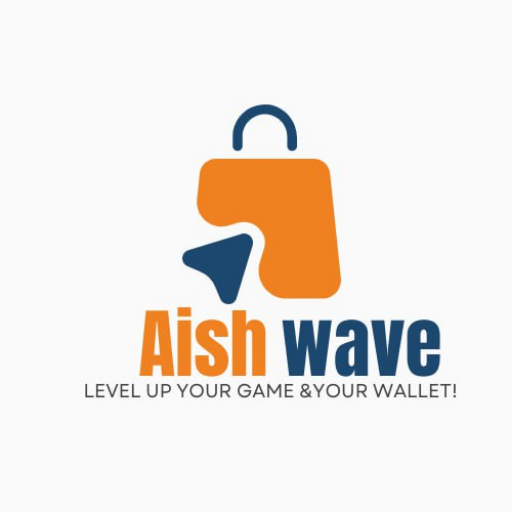
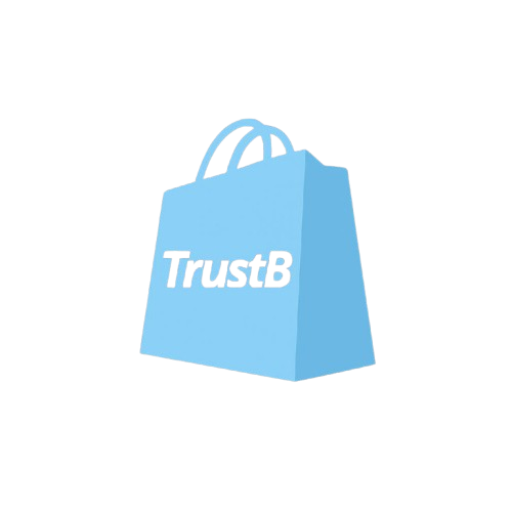
UI tweaks

Changed region(s): [[0.1562, 0.1875, 0.9062, 0.7812]]

diff --git a/shop/templates/homepage/landing_page.html b/shop/templates/homepage/landing_page.html
@@ -5,18 +5,15 @@
 <html lang="en" >
 <head>
   <meta charset="UTF-8">
-  <title>Trustbyte99</title>
-  <link rel="stylesheet" href="{% static 'trustbyte/css/landing_style.css' %}">
-
-</head>
-<body>
-<!-- partial:index.partial.html -->
-<html lang="en">
-<head>
-  <meta charset="UTF-8">
   <meta name="viewport" content="width=device-width, initial-scale=1.0, maximum-scale=1.0, user-scalable=no">
   <title>TrustByte99 - Trade with Trust</title>
   <link rel="stylesheet" href="styles.css">
+  <link rel="apple-touch-icon" sizes="180x180" href="{% static 'trustbyte/img/apple-touch-icon.png' %}">
+  <link rel="icon" type="image/png" sizes="32x32" href="{% static 'trustbyte/img/favicon-32x32.png' %}">
+  <link rel="icon" type="image/png" sizes="16x16" href="{% static 'trustbyte/img/favicon-16x16.png' %}">
+  <link rel="manifest" href="{% static 'trustbyte/img/site.webmanifest' %}">
+  <link rel="stylesheet" href="{% static 'trustbyte/css/style.css' %}">
+
   <link href="https://fonts.googleapis.com/css2?family=Poppins:wght@400;500;600;700;900&display=swap" rel="stylesheet">
   <link href="https://cdnjs.cloudflare.com/ajax/libs/font-awesome/6.0.0/css/all.min.css" rel="stylesheet">
 </head>
@@ -104,7 +101,7 @@
         <h3>Gaming Tournaments</h3>
         <p>Compete in tournaments across popular titles like PUBG, Free Fire, and Call of Duty Mobile. Win exclusive in-game items and real cash prizes.</p>
       </div>
-      <img src="{% static 'trustbyte/img/pubg.jpg' %}" alt="Gaming tournaments" class="feature-image">
+      <img src="{% static 'trustbyte/img/games.jpeg' %}" alt="Gaming tournaments" class="feature-image">
     </div>
     
     <div class="feature-card" data-feature="in-game">
@@ -115,7 +112,7 @@
         <h3>In-Game Items</h3>
         <p>Purchase game currency, skins, and exclusive items for your favorite games at the best rates. Direct top-ups for all major gaming platforms.</p>
       </div>
-      <img src="{% static 'trustbyte/img/fortnite.jpg' %}" alt="In-game items" class="feature-image">
+      <img src="{% static 'trustbyte/img/curr.jpeg' %}" alt="In-game items" class="feature-image">
     </div>
     
     <div class="feature-card" data-feature="crypto">
@@ -127,7 +124,7 @@
         <p>Buy popular cryptocurrencies directly to your wallet with low fees. Fast, secure, and beginner-friendly.
 </p>
       </div>
-      <img src="{% static 'trustbyte/img/cry.jpeg' %}" alt="Crypto trading" class="feature-image">
+      <img src="{% static 'trustbyte/img/cr.jpeg' %}" alt="Crypto trading" class="feature-image">
     </div>
     
     <div class="feature-card" data-feature="esim">
@@ -138,7 +135,7 @@
         <h3>Global eSIM Marketplace</h3>
         <p>Buy and activate eSIMs instantly — stay online wherever you go.</p>
       </div>
-      <img src="{% static 'trustbyte/img/gesim.jpeg' %}" alt="eSIM trading" class="feature-image">
+      <img src="{% static 'trustbyte/img/es.jpeg' %}" alt="eSIM trading" class="feature-image">
     </div>
     
     <div class="feature-card" data-feature="giftcards">
@@ -149,7 +146,7 @@
         <h3>Buy and Sell Gift Cards Instantly</h3>
         <p>Trade gift cards from Apple, Google Play, Steam, PlayStation, and more — or shop top brands directly from our store. Get great rates and fast service, all in one place</p>
       </div>
-      <img src="{% static 'trustbyte/img/gift.jpeg' %}" alt="Gift cards" class="feature-image">
+      <img src="{% static 'trustbyte/img/car.jpeg' %}" alt="Gift cards" class="feature-image">
     </div>
     
     <div class="feature-card" data-feature="investing">
@@ -161,12 +158,12 @@
         <p>Grow your capital with flexible investment plans designed to match your goals. Enjoy competitive returns, full transparency, and the power of smart financial growth.
 </p>
       </div>
-      <img src="{% static 'trustbyte/img/inve.jpeg' %}" alt="Smart investing" class="feature-image">
+      <img src="{% static 'trustbyte/img/in.jpeg' %}" alt="Smart investing" class="feature-image">
     </div>
   </section>
   
   <!-- Reviews Section -->
-  <section class="reviews-section" id="reviews">
+  <!-- <section class="reviews-section" id="reviews">
     <div class="section-title">
       <h2>Trusted by Our Community</h2>
       <p>See what our users are saying about TrustByte99</p>
@@ -311,7 +308,7 @@
         </div>
       </div>
     </div>
-  </section>
+  </section> -->
   
   <!-- Final CTA Section -->
   <section class="cta-section">
@@ -355,10 +352,10 @@
       <div class="footer-column">
         <h4>Connect</h4>
         <div class="social-links">
-          <a href="https://twitter.com/AishWave"><i class="fab fa-twitter"></i></a>
-          <!-- <a href="#"><i class="fab fa-instagram"></i></a>
-          <a href="#"><i class="fab fa-tiktok"></i></a> -->
-          <a href="https://tiktok.com/@aishwave.com"><i class="fab fa-youtube"></i></a>
+          <a href="https://tiktok.com/@trustbyte99"><i class="fab fa-tiktok"></i></a>
+          <!-- <a href="#"><i class="fab fa-instagram"></i></a> -->
+          <a href="https://twitter.com/@trustbyte99"><i class="fab fa-twitter"></i></a>
+          <a href="https://www.youtube.com/channel/UCDmTtd97ZjLdSjNmvqoesqA"><i class="fab fa-youtube"></i></a>
         </div>
       </div>
     </div>
@@ -712,10 +709,7 @@ document.getElementById('steam-detail-cancel').addEventListener('click', () => {
   steamDetailInterface.classList.remove('open');
 });
 </script>
-</body>
-</html>
-<!-- partial -->
-  <script  src="{% static 'trustbyte/js/landing_script.js' %}"></script>
+<script  src="{% static 'trustbyte/js/landing_script.js' %}"></script>
 
 </body>
 </html>

diff --git a/shop/templates/shop/new_finance.html b/shop/templates/shop/new_finance.html
@@ -64,17 +64,14 @@
 
 <!-- Social Media Icons -->
             <div class="social-icons" id="socialIcons">
-                <a href="https://youtube.com/@trustbytecom" target="_blank" class="social-link youtube">
+                <a href="https://youtube.com/channel/UCDmTtd97ZjLdSjNmvqoesqA" target="_blank" class="social-link 5 youtube">
                     <i class="fab fa-youtube"></i>
                 </a>
-                <a href="https://twitter.com/trustbytecom" target="_blank" class="social-link twitter">
+                <a href="https://twitter.com/@trustbyte99" target="_blank" class="social-link twitter">
                     <i class="fab fa-twitter"></i>
                 </a>
-                <a href="https://tiktok.com/@trustbyte.com" target="_blank" class="social-link tiktok">
+                <a href="https://tiktok.com/@trustbyte99" target="_blank" class="social-link tiktok">
                     <i class="fab fa-tiktok"></i>
-                </a>
-                <a href="https://instagram.com/trustbytecom" target="_blank" class="social-link instagram">
-                    <i class="fab fa-instagram"></i>
                 </a>
             </div>
 

diff --git a/shop/templates/shop/finance.html b/shop/templates/shop/finance.html
@@ -86,18 +86,18 @@
 </style>
 
 <div class="social-icons" id="socialIcons">
-    <a href="https://youtube.com/@trustbytecom" target="_blank" class="social-link youtube">
+    <a href="https://youtube.com/channel/UCDmTtd97ZjLdSjNmvqoesqA" target="_blank" class="social-link youtube">
         <i class="fab fa-youtube"></i>
     </a>
-    <a href="https://twitter.com/trustbytecom" target="_blank" class="social-link twitter">
+    <a href="https://twitter.com/@trustbyte99" target="_blank" class="social-link twitter">
         <i class="fab fa-twitter"></i>
     </a>
-    <a href="https://tiktok.com/@trustbyte.com" target="_blank" class="social-link tiktok">
+    <a href="https://tiktok.com/@trustbyte99" target="_blank" class="social-link tiktok">
         <i class="fab fa-tiktok"></i>
     </a>
-    <a href="https://instagram.com/trustbytecom" target="_blank" class="social-link instagram">
+    <!-- <a href="https://instagram.com/trustbytecom" target="_blank" class="social-link instagram">
         <i class="fab fa-instagram"></i>
-    </a>
+    </a> -->
 </div>
 
 <script>

diff --git a/trustbyte/settings.py b/trustbyte/settings.py
@@ -69,7 +69,7 @@ JAZZMIN_SETTINGS = {
     "site_brand": "AishWave",
 
     # Logo to use for your site, must be present in static files, used for brand on top left
-    "site_logo": "trustbyte/img/logo.jpg",
+    "site_logo": "trustbyte/img/android-chrome-512x512.png",
 
     # Logo to use for your site, must be present in static files, used for login form logo (defaults to site_logo)
     "login_logo": None,
